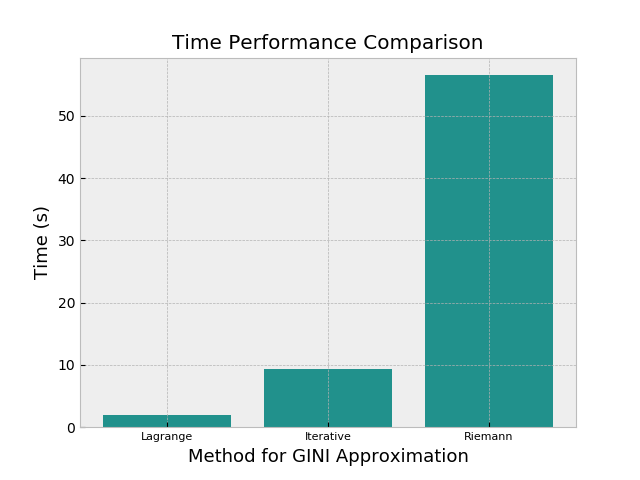
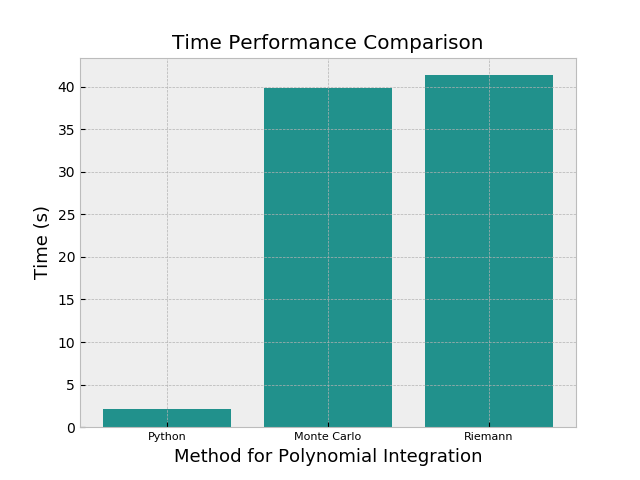
impliemented monte carlo

diff --git a/lagrange.py b/lagrange.py
@@ -5,6 +5,7 @@ import matplotlib.pyplot as plt
 import numpy as np
 from sympy.plotting.plot import List2DSeries
 from timeit import default_timer as timer
+import random
 
 
 matplotlib.style.use('bmh')
@@ -100,6 +101,7 @@ print("Time:", timeLagrange, "seconds")
 print("Accuracy: {:0.2f} %".format(lagAccuracy))
 print("----------------------------------")
 
+print("+++++++++++++ INTEGRATION ++++++++++++")
 delta = 0.005
 acc = 0.0
 accArea = 0.0
@@ -126,38 +128,34 @@ print("Time:", timeRiemann, "seconds")
 print("Accuracy: {:0.2f} %".format(rieAccuracy))
 print("----------------------------------")
 
-accIt = 0.0
-acc = 0.0
-eqArea = 0.0
+tests = 50000
+inside = 0.0
+areaDomain = 100 * 100
+insidePoints = []
 
-startIt = timer()
-while acc <= xLimit:
-    acc += delta
-    eqArea += delta * (equality.evalf(subs={X:acc - (delta / 2.0)}))
+startMC = timer()
+for i in range(tests):
+    xCoord = random.uniform(0, 100)
+    yCoord = random.uniform(0, 100)
 
-for i in range(len(Lx)):
-    if i < len(Lx) - 1:
-        base = Lx[i + 1] - Lx[i]
-        height = yPos[i + 1] - yPos[i]
-        tri = base * height * 0.5
-        rectHeight = yPos[i]
-        rect = rectHeight * base
-        accIt += rect + tri
+    if yCoord <= equality.evalf(subs={X:xCoord}) and yCoord >= lorenz.evalf(subs={X:xCoord}):
+        inside += 1.0
+        point = [xCoord, yCoord]
+        insidePoints.append(point)
+endMC = timer()
 
-enclosedIt = eqArea - accIt
-itGINI = enclosedIt / eqArea
-endIt = timer()
-timeIt = endIt - startIt
-itAccuracy = abs(100.0 - (abs(GINI_KNOWN - itGINI) / GINI_KNOWN) * 100.0)
-
-print("------------ ITERATIVE ------------")
-print("Enclosed Area:", enclosedIt)
-print("Equality Area:", eqArea)
-print("GINI Coefficient:", itGINI)
-print("Time:", timeIt, "seconds")
-print("Accuracy: {:0.2f} %".format(itAccuracy))
+timeMC = endMC - startMC
+MonteCarloArea = (inside / tests) * areaDomain
+mcGINI = MonteCarloArea / areaEquality
+mcAccuracy = abs(100.0 - (abs(GINI_KNOWN - mcGINI) / GINI_KNOWN) * 100.0)
+print("------------ MONTE CARLO ------------")
+print("Enclosed Area:", MonteCarloArea)
+print("GINI Coefficient:", mcGINI)
+print("Time:", timeMC, "seconds")
+print("Accuracy: {:0.2f} %".format(mcAccuracy))
 print("------------------------------------")
 
+# Plots
 p1 = sympy.plotting.plot(lorenz, equality, (X, 0, xLimit), ylim=[0,100],show=False)
 p1.title = "Lagrange Interpolation for GINI Approximation"
 p1[0].line_color='r'
@@ -168,15 +166,25 @@ p2.append(List2DSeries(Lx, yPos))
 p2[2].line_color=(0.5, 0.5, 0.5)
 p2[0].line_color='r'
 
-finalTime = [timeLagrange, timeIt, timeRiemann]
-labels = ["Lagrange", "Iterative", "Riemann"]
+
+finalTime = [timeLagrange, timeMC, timeRiemann]
+labels = ["Python", "Monte Carlo", "Riemann"]
 index = np.arange(len(labels))
 viridis = matplotlib.cm.get_cmap('viridis', 5)
 bars = plt.bar(index, finalTime, color=viridis.colors[2])
-plt.xlabel('Method for GINI Approximation', fontsize=13)
+plt.xlabel('Method for Polynomial Integration', fontsize=13)
 plt.ylabel('Time (s)', fontsize=13)
 plt.xticks(index, labels, fontsize=8, rotation=0)
 plt.title('Time Performance Comparison')
+
+# For Monte Carlo visualization
+'''
+xx = np.linspace(0, 100, 1000)
+yy = sympy.lambdify(X, [equality, lorenz])(xx)
+plt.plot(xx, np.transpose(yy))
+for i in range(len(insidePoints)):
+    plt.plot(insidePoints[i][0], insidePoints[i][1], color='red', marker='o')
+'''
 
 p1.show()
 p2.show()

diff --git a/README.md b/README.md
@@ -26,3 +26,9 @@ The Lorenz curve polynomial approximation using Lagrange Interpolation Method is
 If we plot a line from point to point (gray line) and compare it to the approximated lorenz curve (red line) we get: <br />
 
 ![alt text](https://github.com/the-other-mariana/lagrange-for-gini-croatia/blob/master/results/lagrange-vs-data.png?raw=true)
+
+## Further Experiments
+
+Additionally and outside of the projects strict boundaries, the method for integrating the Lorenz curve in order to get the Gini coefficent were three: Sympy's `integrate` function, Monte Carlo simulation and Riemann Sums. The following plot is the resulting time performance of these three. Interestingly, Monte Carlo simulation showed the most accurate result, with 97.91% of accuracy.
+
+![alt text](https://github.com/the-other-mariana/lagrange-for-gini-croatia/blob/master/results/performance-hrv.png?raw=true)
